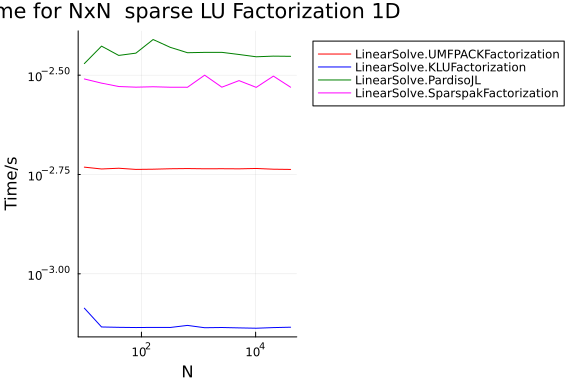
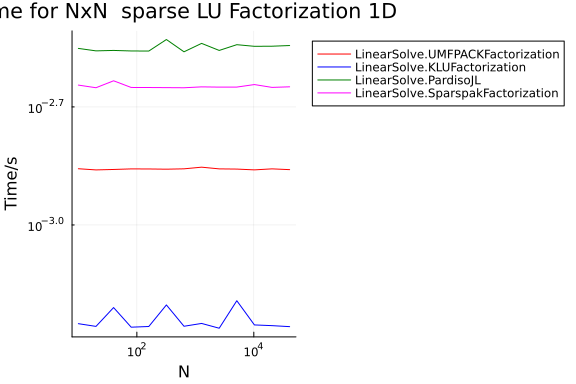
Automatic build\nPublished by build of: https://github.com/SciML/SciMLBenchmarks.jl/commit/fe9af5804c7b58cb85af46ac38b875918f4ceaff

diff --git a/markdown/LinearSolve/MatrixDepot.md b/markdown/LinearSolve/MatrixDepot.md
@@ -1,6 +1,6 @@
 ---
 author: "Jürgen Fuhrmann, Anastasia Dunca"
-title: "Finite Difference Sparse PDE Jacobian Factorization Benchmarks"
+title: "Suite Sparse Matrix Jacobian Factorization Benchmarks"
 ---
 ```julia
 using BenchmarkTools, Random, VectorizationBase
@@ -22,6 +22,10 @@ algs = [
 ]
 cols = [:red, :blue, :green, :magenta, :turqoise] # one color per alg
 
+matrices = ["HB/1138_bus", "HB/494_bus", "HB/662_bus", "HB/685_bus", "HB/bcsstk01", "HB/bcsstk02", "HB/bcsstk03", "HB/bcsstk04", 
+            "HB/bcsstk05", "HB/bcsstk06", "HB/bcsstk07", "HB/bcsstk08", "HB/bcsstk09", "HB/bcsstk10", "HB/bcsstk11", "HB/bcsstk12",
+            "HB/bcsstk13", "HB/bcsstk14", "HB/bcsstk15", "HB/bcsstk16"]
+                
 __parameterless_type(T) = Base.typename(T).wrapper
 parameterless_type(x) = __parameterless_type(typeof(x))
 parameterless_type(::Type{T}) where {T} = __parameterless_type(T)
@@ -36,40 +40,48 @@ function run_and_plot(dim; kmax = 12)
 
     res = [Float64[] for i in 1:length(algs)]
 
-    for i in 1:length(ns)
-        rng = MersenneTwister(123)
-        A = mdopen("HB/1138_bus").A
-        A = convert(SparseMatrixCSC, A)
-        n = size(A, 1)
-        @info "dim=$(dim): $n × $n"
-        b = rand(rng, n)
-        u0 = rand(rng, n)
+    
+    for z in 1:length(matrices)
+        try
+            for i in 1:length(ns)
+                rng = MersenneTwister(123)
+                A = mdopen(matrices[z]).A
+                A = convert(SparseMatrixCSC, A)
+                n = size(A, 1)
+                @info "dim=$(dim): $n × $n"
+                b = rand(rng, n)
+                u0 = rand(rng, n)
 
-        for j in 1:length(algs)
-            bt = @belapsed solve(prob, $(algs[j])).u setup=(prob = LinearProblem(copy($A),
-                copy($b);
-                u0 = copy($u0),
-                alias_A = true,
-                alias_b = true))
-            push!(res[j], bt)
+                for j in 1:length(algs)
+                    bt = @belapsed solve(prob, $(algs[j])).u setup=(prob = LinearProblem(copy($A),
+                        copy($b);
+                        u0 = copy($u0),
+                        alias_A = true,
+                        alias_b = true))
+                    push!(res[j], bt)
+                end
+            end
+
+            p = plot(;
+                ylabel = "Time/s",
+                xlabel = "N",
+                yscale = :log10,
+                xscale = :log10,
+                title = "Time for NxN  sparse LU Factorization $(dim)D",
+                label = string(Symbol(parameterless_type(algs[1]))),
+                legend = :outertopright)
+
+            for i in 1:length(algs)
+                plot!(p, ns, res[i];
+                    linecolor = cols[i],
+                    label = "$(string(Symbol(parameterless_type(algs[i]))))")
+            end
+            display(p)
+        catch
+            println(matrices[z])
         end
-    end
-
-    p = plot(;
-        ylabel = "Time/s",
-        xlabel = "N",
-        yscale = :log10,
-        xscale = :log10,
-        title = "Time for NxN  sparse LU Factorization $(dim)D",
-        label = string(Symbol(parameterless_type(algs[1]))),
-        legend = :outertopright)
-
-    for i in 1:length(algs)
-        plot!(p, ns, res[i];
-            linecolor = cols[i],
-            label = "$(string(Symbol(parameterless_type(algs[i]))))")
-    end
-    p
+        end
+       
 end
 ```
 
@@ -83,17 +95,86 @@ run_and_plot (generic function with 1 method)
 run_and_plot(1)
 ```
 
+```
+HB/494_bus
+HB/662_bus
+HB/685_bus
+HB/bcsstk01
+HB/bcsstk02
+HB/bcsstk03
+HB/bcsstk04
+HB/bcsstk05
+HB/bcsstk06
+HB/bcsstk07
+HB/bcsstk08
+HB/bcsstk09
+HB/bcsstk10
+HB/bcsstk11
+HB/bcsstk12
+HB/bcsstk13
+HB/bcsstk14
+HB/bcsstk15
+HB/bcsstk16
+```
+
+
 ![](figures/MatrixDepot_2_1.png)
 
 ```julia
 run_and_plot(2)
 ```
 
+```
+HB/494_bus
+HB/662_bus
+HB/685_bus
+HB/bcsstk01
+HB/bcsstk02
+HB/bcsstk03
+HB/bcsstk04
+HB/bcsstk05
+HB/bcsstk06
+HB/bcsstk07
+HB/bcsstk08
+HB/bcsstk09
+HB/bcsstk10
+HB/bcsstk11
+HB/bcsstk12
+HB/bcsstk13
+HB/bcsstk14
+HB/bcsstk15
+HB/bcsstk16
+```
+
+
 ![](figures/MatrixDepot_3_1.png)
 
 ```julia
 run_and_plot(3)
 ```
+
+```
+HB/494_bus
+HB/662_bus
+HB/685_bus
+HB/bcsstk01
+HB/bcsstk02
+HB/bcsstk03
+HB/bcsstk04
+HB/bcsstk05
+HB/bcsstk06
+HB/bcsstk07
+HB/bcsstk08
+HB/bcsstk09
+HB/bcsstk10
+HB/bcsstk11
+HB/bcsstk12
+HB/bcsstk13
+HB/bcsstk14
+HB/bcsstk15
+HB/bcsstk16
+```
+
 
 ![](figures/MatrixDepot_4_1.png)
 
@@ -116,8 +197,8 @@ SciMLBenchmarks.weave_file("benchmarks/LinearSolve","MatrixDepot.jmd")
 Computer Information:
 
 ```
-Julia Version 1.10.2
-Commit bd47eca2c8a (2024-03-01 10:14 UTC)
+Julia Version 1.10.4
+Commit 48d4fd48430 (2024-06-04 10:41 UTC)
 Build Info:
   Official https://julialang.org/ release
 Platform Info:
@@ -126,7 +207,7 @@ Platform Info:
   WORD_SIZE: 64
   LIBM: libopenlibm
   LLVM: libLLVM-15.0.7 (ORCJIT, znver2)
-Threads: 1 default, 0 interactive, 1 GC (on 128 virtual cores)
+Threads: 128 default, 0 interactive, 64 GC (on 128 virtual cores)
 Environment:
   JULIA_CPU_THREADS = 128
   JULIA_DEPOT_PATH = /cache/julia-buildkite-plugin/depots/5b300254-1738-4989-ae0a-f4d2d937f953
@@ -136,10 +217,10 @@ Environment:
 Package Information:
 
 ```
-Status `/cache/build/exclusive-amdci1-0/julialang/scimlbenchmarks-dot-jl/benchmarks/LinearSolve/Project.toml`
+Status `/cache/build/exclusive-amdci3-0/julialang/scimlbenchmarks-dot-jl/benchmarks/LinearSolve/Project.toml`
 ⌃ [6e4b80f9] BenchmarkTools v1.3.2
 ⌃ [7ed4a6bd] LinearSolve v2.5.0
-  [b51810bb] MatrixDepot v1.0.11
+⌃ [b51810bb] MatrixDepot v1.0.11
 ⌃ [46dd5b70] Pardiso v0.5.4
 ⌃ [91a5bcdd] Plots v1.38.17
   [31c91b34] SciMLBenchmarks v0.1.3
@@ -157,7 +238,7 @@ Warning The project dependencies or compat requirements have changed since the m
 And the full manifest:
 
 ```
-Status `/cache/build/exclusive-amdci1-0/julialang/scimlbenchmarks-dot-jl/benchmarks/LinearSolve/Manifest.toml`
+Status `/cache/build/exclusive-amdci3-0/julialang/scimlbenchmarks-dot-jl/benchmarks/LinearSolve/Manifest.toml`
 ⌅ [47edcb42] ADTypes v0.1.6
 ⌅ [79e6a3ab] Adapt v3.6.2
 ⌃ [4fba245c] ArrayInterface v7.4.11
@@ -173,7 +254,7 @@ Status `/cache/build/exclusive-amdci1-0/julialang/scimlbenchmarks-dot-jl/benchma
 ⌃ [35d6a980] ColorSchemes v3.23.0
 ⌃ [3da002f7] ColorTypes v0.11.4
   [c3611d14] ColorVectorSpace v0.10.0
-  [5ae59095] Colors v0.12.10
+⌃ [5ae59095] Colors v0.12.10
   [38540f10] CommonSolve v0.2.4
 ⌃ [34da2185] Compat v4.9.0
 ⌃ [f0e56b4a] ConcurrentUtilities v2.2.1
@@ -193,7 +274,7 @@ Status `/cache/build/exclusive-amdci1-0/julialang/scimlbenchmarks-dot-jl/benchma
   [e2ba6199] ExprTools v0.1.10
   [c87230d0] FFMPEG v0.4.1
 ⌃ [29a986be] FastLapackInterface v2.0.0
-  [53c48c17] FixedPointNumbers v0.8.4
+⌃ [53c48c17] FixedPointNumbers v0.8.4
 ⌃ [59287772] Formatting v0.4.2
   [069b7b12] FunctionWrappers v1.1.3
   [77dc65aa] FunctionWrappersWrappers v0.1.3
@@ -203,11 +284,11 @@ Status `/cache/build/exclusive-amdci1-0/julialang/scimlbenchmarks-dot-jl/benchma
   [42e2da0e] Grisu v1.0.2
   [f67ccb44] HDF5 v0.17.2
 ⌃ [cd3eb016] HTTP v1.9.14
-  [eafb193a] Highlights v0.5.2
+⌃ [eafb193a] Highlights v0.5.2
   [3e5b6fbb] HostCPUFeatures v0.1.16
   [7073ff75] IJulia v1.24.2
   [615f187c] IfElse v0.1.1
-  [842dd82b] InlineStrings v1.4.0
+⌃ [842dd82b] InlineStrings v1.4.0
   [41ab1584] InvertedIndices v1.3.0
   [92d709cd] IrrationalConstants v0.2.2
   [82899510] IteratorInterfaceExtensions v1.0.0
@@ -224,11 +305,11 @@ Status `/cache/build/exclusive-amdci1-0/julialang/scimlbenchmarks-dot-jl/benchma
 ⌃ [2ab3a3ac] LogExpFunctions v0.3.26
 ⌃ [e6f89c97] LoggingExtras v1.0.1
 ⌃ [bdcacae8] LoopVectorization v0.12.165
-  [23992714] MAT v0.10.6
-  [3da0fdf6] MPIPreferences v0.1.10
+⌃ [23992714] MAT v0.10.6
+⌃ [3da0fdf6] MPIPreferences v0.1.10
 ⌃ [1914dd2f] MacroTools v0.5.11
   [d125e4d3] ManualMemory v0.1.8
-  [b51810bb] MatrixDepot v1.0.11
+⌃ [b51810bb] MatrixDepot v1.0.11
 ⌃ [739be429] MbedTLS v1.1.7
   [442fdcdd] Measures v0.3.2
 ⌃ [e1d29d7a] Missings v1.1.0
@@ -240,7 +321,7 @@ Status `/cache/build/exclusive-amdci1-0/julialang/scimlbenchmarks-dot-jl/benchma
 ⌃ [46dd5b70] Pardiso v0.5.4
 ⌃ [69de0a69] Parsers v2.7.2
   [b98c9c47] Pipe v1.3.0
-  [ccf2f8ad] PlotThemes v3.1.0
+⌃ [ccf2f8ad] PlotThemes v3.1.0
 ⌃ [995b91a9] PlotUtils v1.3.5
 ⌃ [91a5bcdd] Plots v1.38.17
 ⌃ [f517fe37] Polyester v0.7.5
@@ -248,7 +329,7 @@ Status `/cache/build/exclusive-amdci1-0/julialang/scimlbenchmarks-dot-jl/benchma
   [2dfb63ee] PooledArrays v1.4.3
 ⌃ [aea7be01] PrecompileTools v1.2.0
 ⌃ [21216c6a] Preferences v1.4.0
-  [08abe8d2] PrettyTables v2.3.1
+⌃ [08abe8d2] PrettyTables v2.3.1
   [3cdcf5f2] RecipesBase v1.3.4
   [01d81517] RecipesPipeline v0.6.12
 ⌅ [731186ca] RecursiveArrayTools v2.38.7
@@ -263,7 +344,7 @@ Status `/cache/build/exclusive-amdci1-0/julialang/scimlbenchmarks-dot-jl/benchma
   [31c91b34] SciMLBenchmarks v0.1.3
 ⌃ [c0aeaf25] SciMLOperators v0.3.6
 ⌃ [6c6a2e73] Scratch v1.2.0
-  [91c51154] SentinelArrays v1.4.1
+⌃ [91c51154] SentinelArrays v1.4.1
   [efcf1570] Setfield v1.1.1
   [992d4aef] Showoff v1.0.3
   [777ac1f9] SimpleBufferStream v1.1.0
@@ -273,7 +354,7 @@ Status `/cache/build/exclusive-amdci1-0/julialang/scimlbenchmarks-dot-jl/benchma
   [e56a9233] Sparspak v0.3.9
 ⌃ [aedffcd0] Static v0.8.8
 ⌃ [0d7ed370] StaticArrayInterface v1.4.0
-  [1e83bf80] StaticArraysCore v1.4.2
+⌃ [1e83bf80] StaticArraysCore v1.4.2
 ⌃ [82ae8749] StatsAPI v1.6.0
 ⌃ [2913bbd2] StatsBase v0.34.0
 ⌅ [7792a7ef] StrideArraysCore v0.4.17
@@ -297,16 +378,16 @@ Status `/cache/build/exclusive-amdci1-0/julialang/scimlbenchmarks-dot-jl/benchma
 ⌃ [3d5dd08c] VectorizationBase v0.21.64
   [81def892] VersionParsing v1.3.0
   [44d3d7a6] Weave v0.10.12
-  [ddb6d928] YAML v0.4.9
-  [c2297ded] ZMQ v1.2.2
+⌃ [ddb6d928] YAML v0.4.9
+⌃ [c2297ded] ZMQ v1.2.2
 ⌃ [6e34b625] Bzip2_jll v1.0.8+0
 ⌃ [83423d85] Cairo_jll v1.16.1+1
   [2702e6a9] EpollShim_jll v0.0.20230411+0
-  [2e619515] Expat_jll v2.5.0+0
+⌃ [2e619515] Expat_jll v2.5.0+0
 ⌅ [b22a6f82] FFMPEG_jll v4.4.2+2
-  [a3f928ae] Fontconfig_jll v2.13.93+0
-  [d7e528f0] FreeType2_jll v2.13.1+0
-  [559328eb] FriBidi_jll v1.0.10+0
+⌃ [a3f928ae] Fontconfig_jll v2.13.93+0
+⌃ [d7e528f0] FreeType2_jll v2.13.1+0
+⌃ [559328eb] FriBidi_jll v1.0.10+0
 ⌃ [0656b61e] GLFW_jll v3.3.8+0
 ⌅ [d2c73de3] GR_jll v0.72.9+1
   [78b55507] Gettext_jll v0.21.0+0
@@ -317,14 +398,14 @@ Status `/cache/build/exclusive-amdci1-0/julialang/scimlbenchmarks-dot-jl/benchma
   [2e76f6c2] HarfBuzz_jll v2.8.1+1
 ⌅ [1d5cc7b8] IntelOpenMP_jll v2023.2.0+0
 ⌃ [aacddb02] JpegTurbo_jll v2.1.91+0
-  [c1c5ebd0] LAME_jll v3.100.1+0
-  [88015f11] LERC_jll v3.0.0+1
+⌃ [c1c5ebd0] LAME_jll v3.100.1+0
+⌅ [88015f11] LERC_jll v3.0.0+1
 ⌃ [1d63c593] LLVMOpenMP_jll v15.0.4+0
-  [dd4b983a] LZO_jll v2.10.1+0
+⌃ [dd4b983a] LZO_jll v2.10.1+0
 ⌅ [e9f186c6] Libffi_jll v3.2.2+1
-  [d4300ac3] Libgcrypt_jll v1.8.7+0
+⌃ [d4300ac3] Libgcrypt_jll v1.8.7+0
   [7e76a0d4] Libglvnd_jll v1.6.0+0
-  [7add5ba3] Libgpg_error_jll v1.42.0+0
+⌃ [7add5ba3] Libgpg_error_jll v1.42.0+0
 ⌃ [94ce4f54] Libiconv_jll v1.16.1+2
 ⌃ [4b2f31a3] Libmount_jll v2.35.0+0
 ⌅ [89763e89] Libtiff_jll v4.5.1+1
@@ -333,7 +414,7 @@ Status `/cache/build/exclusive-amdci1-0/julialang/scimlbenchmarks-dot-jl/benchma
   [e7412a2a] Ogg_jll v1.3.5+1
 ⌅ [458c3c95] OpenSSL_jll v1.1.22+0
   [91d4177d] Opus_jll v1.3.2+0
-  [30392449] Pixman_jll v0.42.2+0
+⌃ [30392449] Pixman_jll v0.42.2+0
 ⌅ [c0090381] Qt6Base_jll v6.4.2+3
 ⌃ [a2964d1f] Wayland_jll v1.21.0+0
 ⌃ [2381bf8a] Wayland_protocols_jll v1.25.0+0
@@ -344,12 +425,12 @@ Status `/cache/build/exclusive-amdci1-0/julialang/scimlbenchmarks-dot-jl/benchma
   [0c0b7dd1] Xorg_libXau_jll v1.0.11+0
   [935fb764] Xorg_libXcursor_jll v1.2.0+4
   [a3789734] Xorg_libXdmcp_jll v1.1.4+0
-  [1082639a] Xorg_libXext_jll v1.3.4+4
+⌃ [1082639a] Xorg_libXext_jll v1.3.4+4
   [d091e8ba] Xorg_libXfixes_jll v5.0.3+4
   [a51aa0fd] Xorg_libXi_jll v1.7.10+4
   [d1454406] Xorg_libXinerama_jll v1.1.4+4
   [ec84b674] Xorg_libXrandr_jll v1.5.2+4
-  [ea2f1a96] Xorg_libXrender_jll v0.9.10+4
+⌃ [ea2f1a96] Xorg_libXrender_jll v0.9.10+4
   [14d82f49] Xorg_libpthread_stubs_jll v0.1.1+0
   [c7cfdc94] Xorg_libxcb_jll v1.15.0+0
   [cc61e674] Xorg_libxkbfile_jll v1.1.2+0
@@ -364,7 +445,7 @@ Status `/cache/build/exclusive-amdci1-0/julialang/scimlbenchmarks-dot-jl/benchma
 ⌃ [8f1865be] ZeroMQ_jll v4.3.4+0
 ⌃ [3161d3a3] Zstd_jll v1.5.5+0
 ⌅ [214eeab7] fzf_jll v0.29.0+0
-  [a4ae2306] libaom_jll v3.4.0+0
+⌃ [a4ae2306] libaom_jll v3.4.0+0
   [0ac62f75] libass_jll v0.15.1+0
   [f638f0a6] libfdk_aac_jll v2.0.2+0
 ⌃ [b53b4c65] libpng_jll v1.6.38+0
